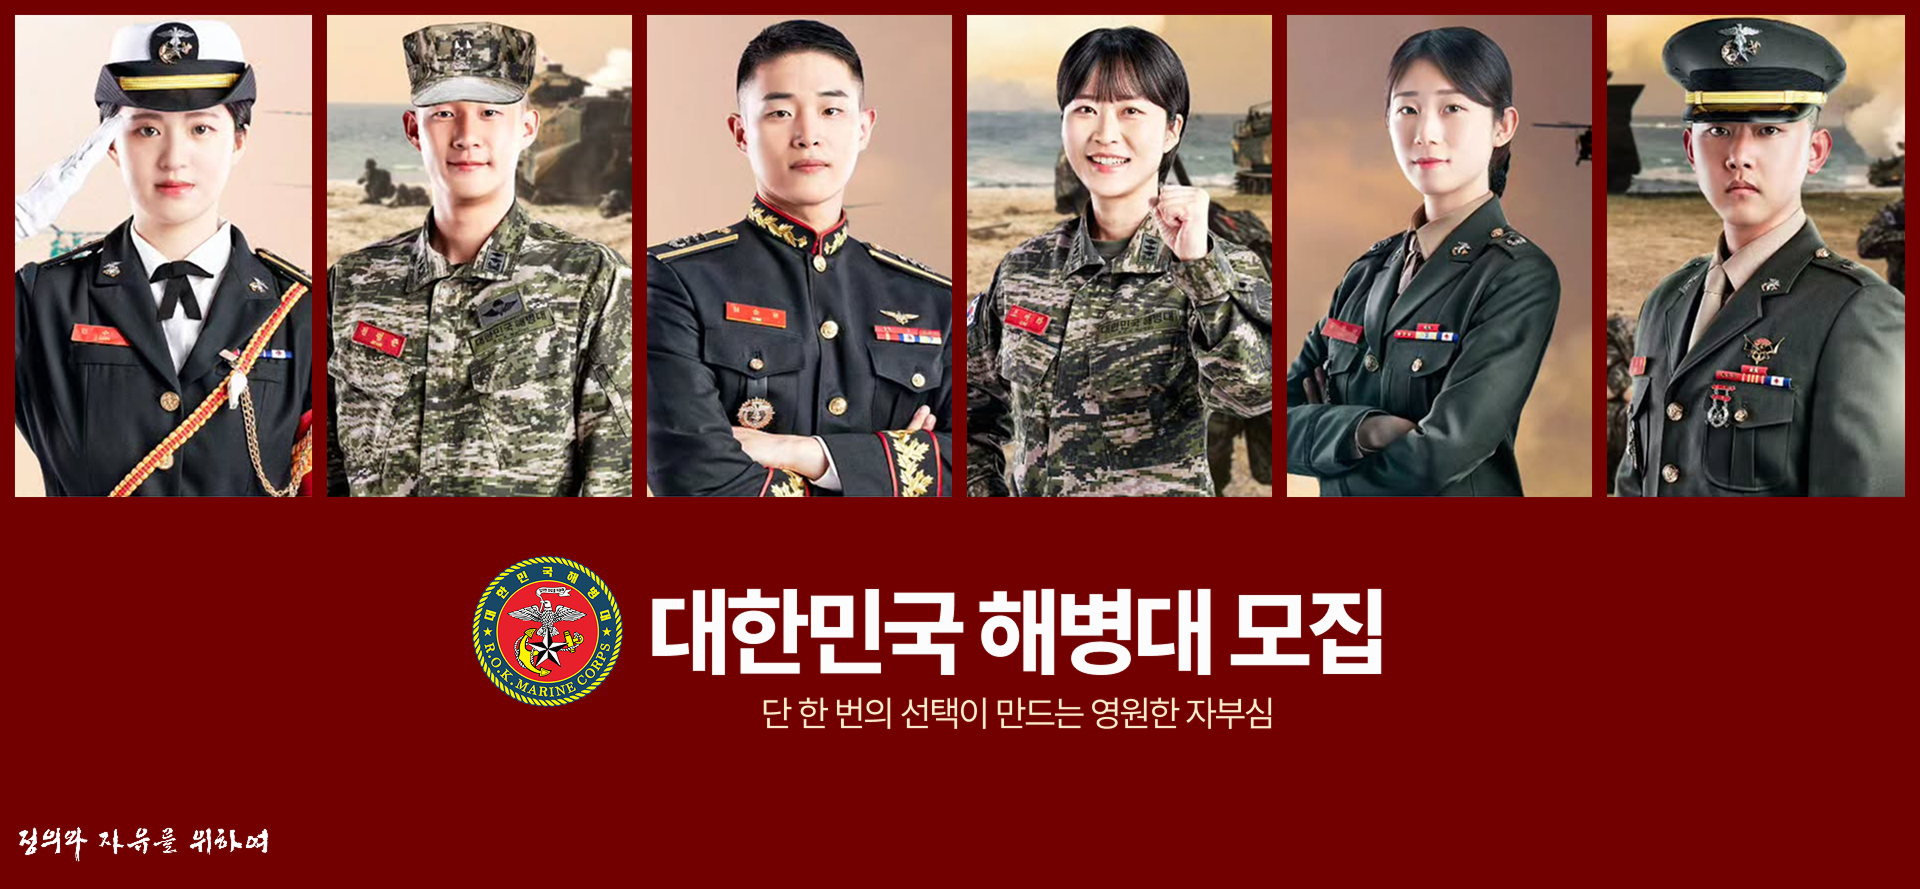
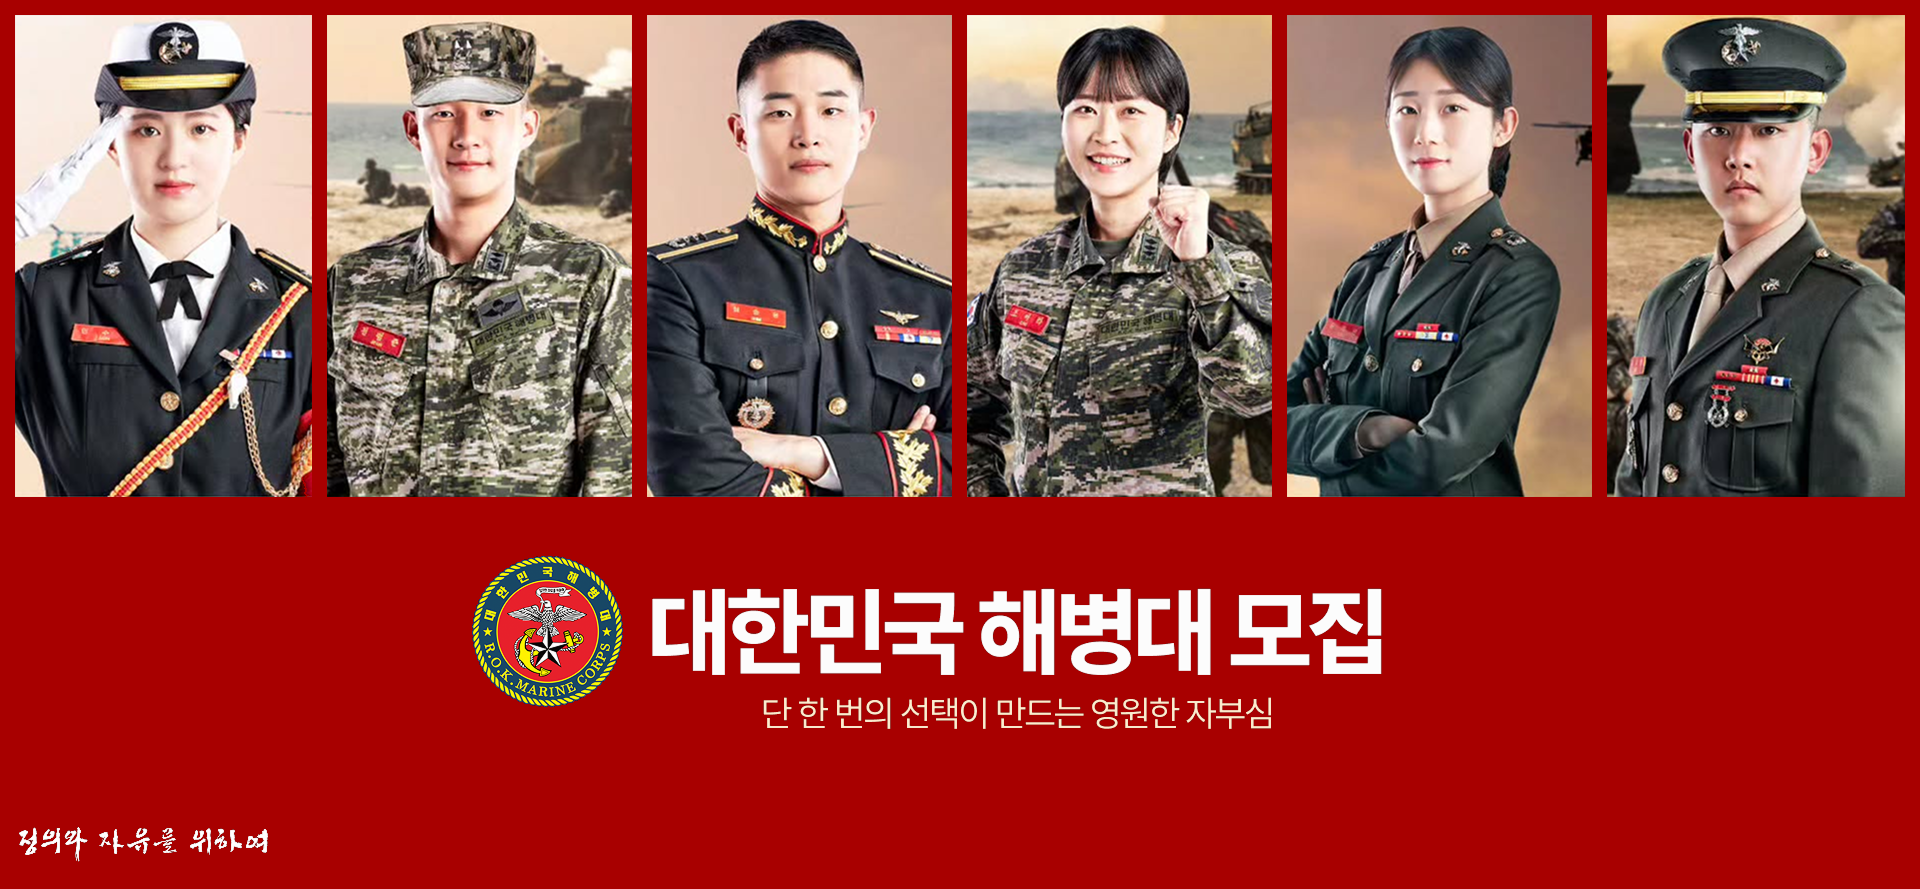
요청사항 일부반영

diff --git a/css/design.css b/css/design.css
@@ -94,7 +94,7 @@ body {min-width:1660px; width:100%;}
 /* ============================================== */
 /* 2. Main Visual 및 제목 섹션 */
 /* ============================================== */
-.main-visual {display:flex; flex-direction:column; width:100%; position: relative; overflow: hidden; background-color:#730000; justify-content:center; align-items:center;}
+.main-visual {display:flex; flex-direction:column; width:100%; position: relative; overflow: hidden; background-color:#a80000; justify-content:center; align-items:center;}
 .main-visual .slide-wrap {max-width:1920px;}
 .mv-btn {display:flex; flex-direction:row; position:absolute; bottom:50px; left:50%; transform:translateX(-50%); padding-right:36px;}
 .mv-btn .slideToggle {
@@ -119,7 +119,7 @@ body {min-width:1660px; width:100%;}
 }
 
 @media screen and (max-width:960px) {
-    .main-visual {overflow: hidden; background-color:#730000;}
+    .main-visual {overflow: hidden;}
     .main-visual .slide-wrap {max-width:1920px; width:100%;}
     .mv-btn {bottom:12px; padding-right:20px;}
     .mv-btn .slideToggle {width:8px; height:14px; background-size:8px 14px; top:calc(50% - 7px); right:0;}
@@ -670,6 +670,12 @@ body {min-width:1660px; width:100%;}
 .rd-type1 input:checked + .chk i {color:#FFFFFF;}
 
 @media screen and (max-width:960px) {
+    .btnBox {margin-top:16px; gap:8px;}
+    .btnBox .btnLeft {gap:8px;}
+    .btnBox .btnRight {gap:8px;}
+    .btnBox.popup {padding:12px 20px;}
+    .btnBox .btn {min-width:70px; padding:8px 16px; border-radius:8px; font-size:13px; line-height:20px;}
+
     .check-cont {flex-direction:column; justify-content:flex-start; align-items:flex-start; gap:4px; padding-left:24px;}
     .rd-type1 {padding-left:24px;}
     .rd-type1 input {width:18px; height:18px; top:2px;}
@@ -799,8 +805,8 @@ body {min-width:1660px; width:100%;}
 
 /* Main Popup */
 .mainpopBox {display:flex; width:100%; height:100%; background-image:url(../images/bg/popup_index.jpg); background-repeat:no-repeat; background-size:cover;}
-.mainPCont {display:flex; width:100%; height:100%; flex-direction:row; justify-content:center; align-items:center; gap:20px; padding:80px 24px;}
-.mpcCont {display:flex; cursor:pointer; display:flex; flex:1 1 15%; min-height:270px; background-color:#333333; border:2px solid #820000; opacity:0.7; transition:0.3s;}
+.mainPCont {display:flex; width:100%; height:100%; flex-direction:row; justify-content:flex-start; align-items:center; gap:20px; padding:80px 24px; overflow:auto;}
+.mpcCont {display:flex; cursor:pointer; display:flex; flex:1 1 30%; min-width:30%; min-height:270px; background-color:#333333; border:2px solid #820000; opacity:0.7; transition:0.3s;}
 .mpcCont:hover {opacity:1; border-color:#333333; background-color:#FFFFFF;}
 .popDown {display:flex; width:100%; flex-direction:row; justify-content:flex-end; align-items:center; padding:8px 16px;}
 
@@ -825,3 +831,16 @@ body {min-width:1660px; width:100%;}
 .chbItem:hover a {color:#FFFFFF;} 
 .chbBtnBox {display:flex; width:100%; flex-direction:row; justify-content:center; align-items:center; gap:12px;}
 .chbBtnBox button {display:inline-flex; width:30px; height:30px; background-color:transparent; border:none; outline:none; font-size:24px; justify-content:center; align-items:center;}
+
+@media screen and (max-width:960px) {
+    .mainPCont {gap:12px; padding:40px 12px;}
+    .mpcCont {flex:1 1 30%; min-width:30%; min-height:250px;}
+    .popDown {padding:8px 12px;}
+
+    /* Chatbot */
+    .chatbotBox {max-width:240px; bottom:55px; right:70px; padding:16px 12px; gap:8px;}
+    .chbTitle {font-size:14px;}
+    .chbItem a {padding:12px 16px; font-size:13px;}
+    .chbBtnBox {gap:8px;}
+    .chbBtnBox button {width:24px; height:24px; font-size:20px;}
+}
